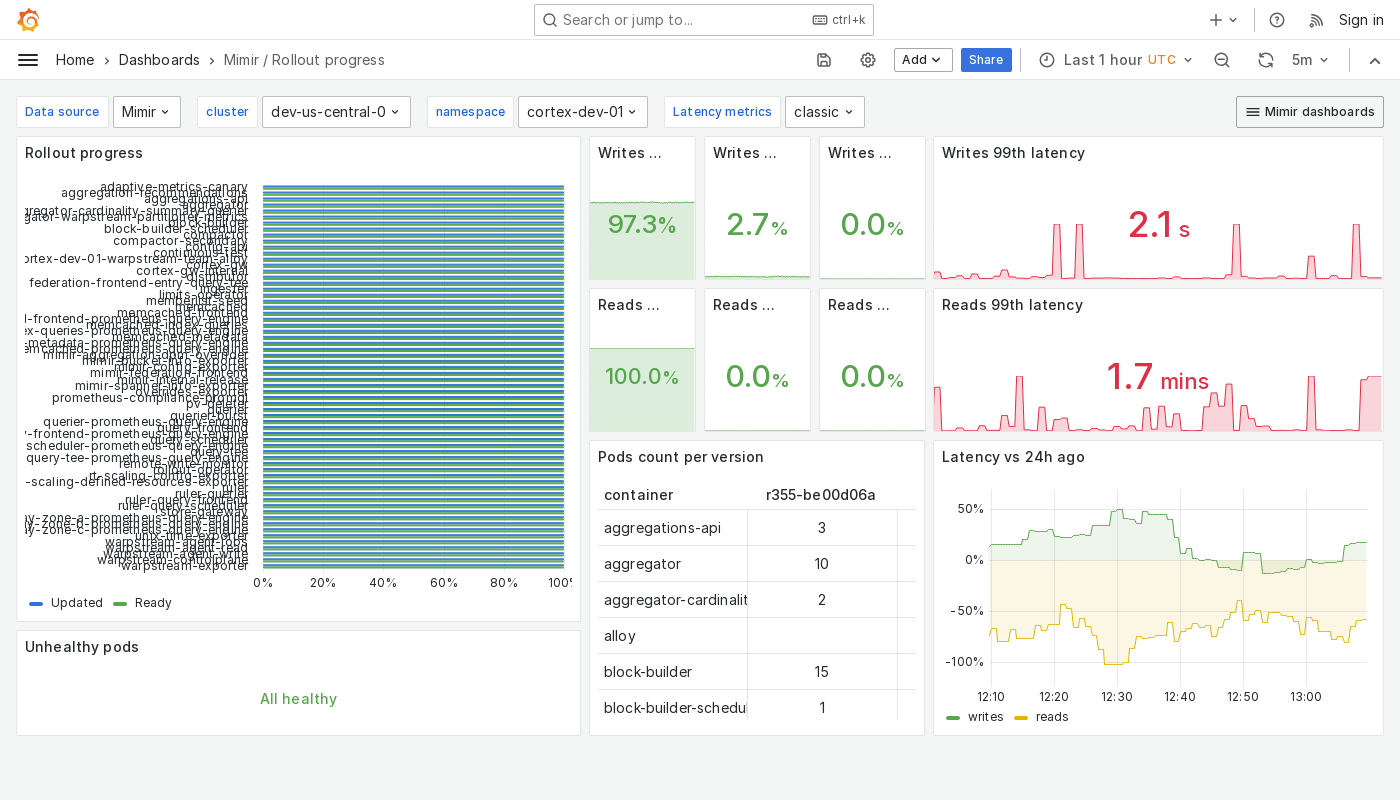
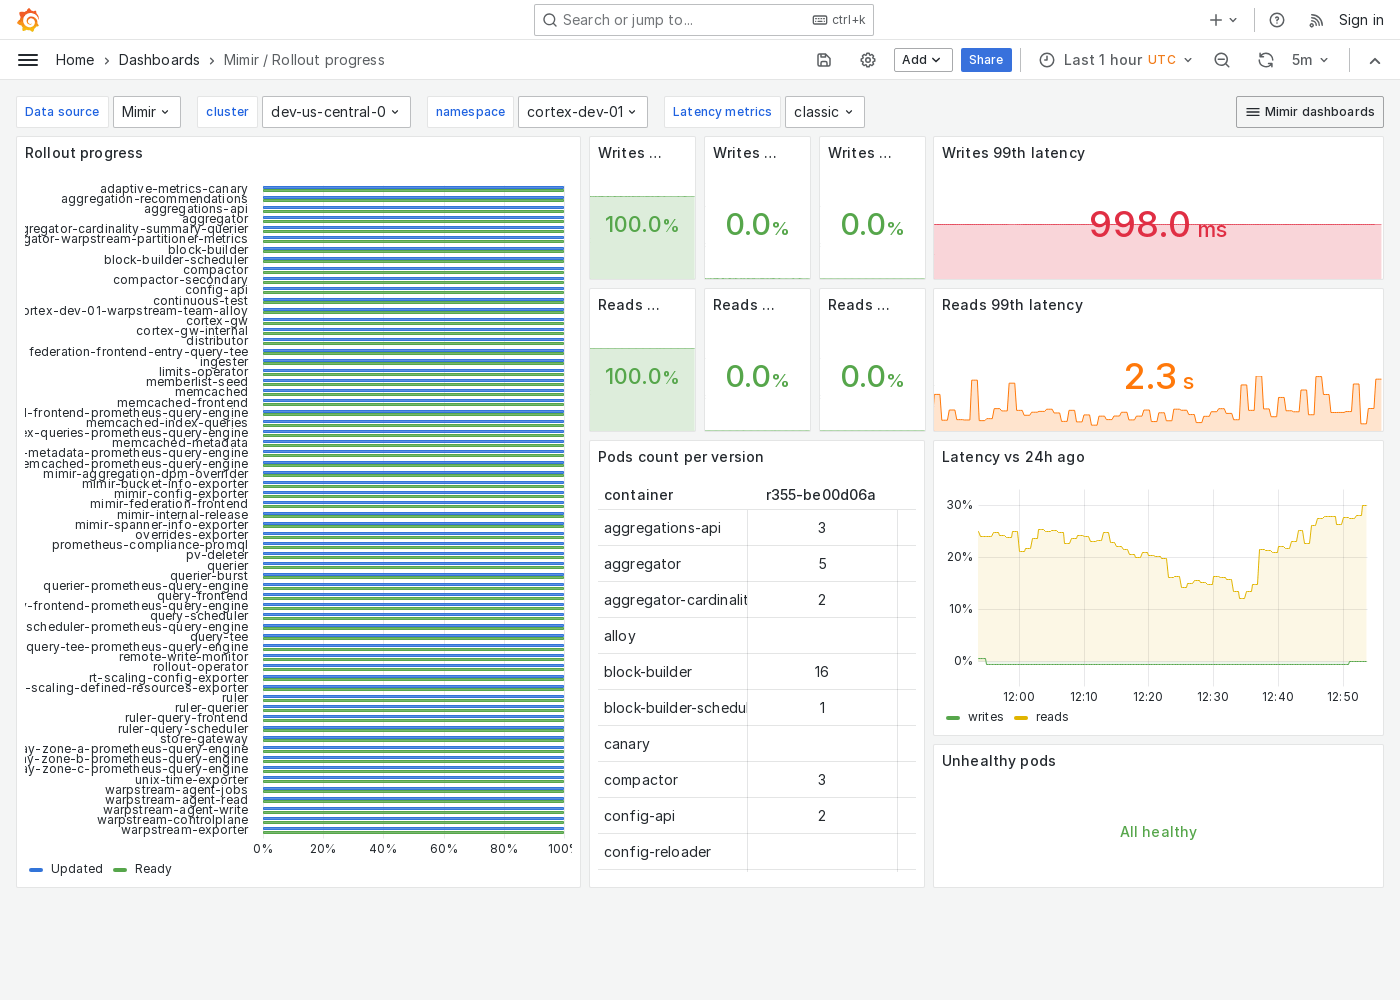
Rollout dashboard: make panels higher
The number of components in a Mimir deployment grows over time, and
it's becoming challenging to visualize them in the Rollout progress
panel, so I made it higher, as well ass the "Pods count per version"
one, moving the "Unhealthy pods" one to the corner.

diff --git a/operations/mimir-mixin-tools/screenshots/main.go b/operations/mimir-mixin-tools/screenshots/main.go
@@ -39,7 +39,7 @@ var customViewportHeight = map[string]int{
 	"mimir-overview-resources":            1700,
 	"mimir-overview-networking":           1100,
 	"mimir-reads-networking":              2000,
-	"mimir-rollout-progress":              800,
+	"mimir-rollout-progress":              1000,
 	"mimir-scaling":                       800,
 	"mimir-slow-queries":                  600,
 	"mimir-tenants":                       1200,

diff --git a/CHANGELOG.md b/CHANGELOG.md
@@ -33,6 +33,7 @@
 
 ### Mixin
 
+* [ENHANCEMENT] Rollout progress dashboard: make panels higher to fit more components. #12429
 * [BUGFIX] Block-builder dashboard: fix reference to detected gaps metric in errors panel. #12401
 
 ### Jsonnet
